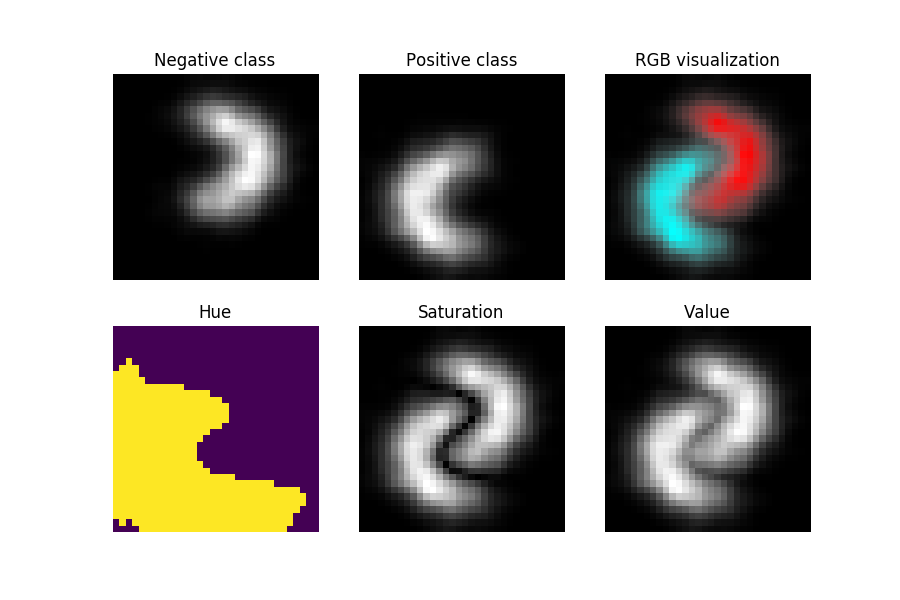
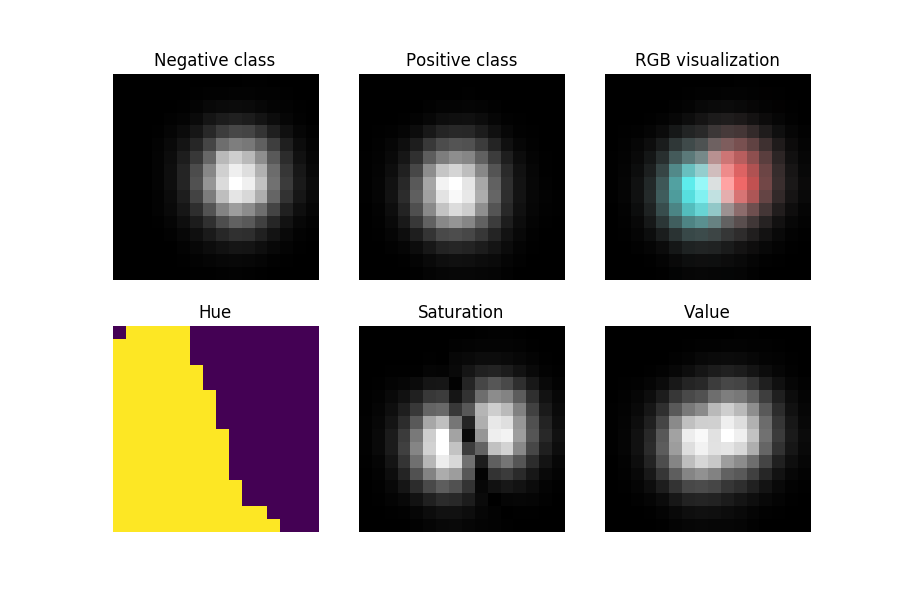
Pushing the docs for revision for branch: master, commit 816321f8b7b0fa1f9b0a92f97a49976f4a72881e

diff --git a/searchindex.js b/searchindex.js
@@ -1,1 +1,1 @@
-Search.setIndex({docnames:["about","api","auto_examples/compare_classifiers","auto_examples/index","auto_examples/plot_colorspace","auto_examples/plot_exposer","auto_examples/plot_hyperparameters","exposing","index","install"],envversion:52,filenames:["about.rst","api.rst","auto_examples/compare_classifiers.rst","auto_examples/index.rst","auto_examples/plot_colorspace.rst","auto_examples/plot_exposer.rst","auto_examples/plot_hyperparameters.rst","exposing.rst","index.rst","install.rst"],objects:{"":{exposing:[7,0,0,"-"]},"exposing.Exposer":{fit:[7,2,1,""],hsv:[7,2,1,""],locations:[7,2,1,""],model:[7,2,1,""],predict:[7,2,1,""],predict_proba:[7,2,1,""],rgb:[7,2,1,""],signatures:[7,2,1,""]},exposing:{Exposer:[7,1,1,""]}},objnames:{"0":["py","module","Python module"],"1":["py","class","Python class"],"2":["py","method","Python method"]},objtypes:{"0":"py:module","1":"py:class","2":"py:method"},terms:{"class":[4,7,8],"default":7,"float":7,"function":7,"import":[2,4,5,6],"int":7,"return":7,"true":2,GIS:7,The:[7,9],Use:9,a_step:[4,5,6,7],a_stepss:6,about:8,acc:6,adaboost:2,adaboostclassifi:2,adapt:7,addtion:[1,8],adipis:[0,1,7,8],aliqua:[0,1,7,8],aliquip:[0,1,7,8],all:[3,9],amet:[0,1,7,8],anim:[0,1,7,8],anisotrop:7,anyon:8,api:8,arrai:7,array_lik:7,assert_almost_equ:[2,4,5,6],attribut:7,aut:[0,1,7,8],auto_examples_jupyt:3,auto_examples_python:3,avail:9,axi:[4,6],axs:4,axx:4,basic:7,bay:2,bin:7,calcul:7,can:9,cillum:[0,1,7,8],classifi:[3,7],clf:[2,4,6],clone:9,closest:7,cmap:4,code:[2,3,4,5,6],colorspac:3,com:9,come:8,command:9,commodo:[0,1,7,8],compar:3,compare_classifi:2,compat:8,complet:7,comput:7,consectetur:[0,1,7,8],consequat:[0,1,7,8],contain:8,copi:9,correspond:7,culpa:[0,1,7,8],cupidatat:[0,1,7,8],dataset:[3,4,5,6,7],datetim:2,decis:2,decisiontreeclassifi:2,depend:9,deserunt:[0,1,7,8],develop:8,diffus:7,dimens:7,discriminant_analysi:2,divid:7,document:7,dolor:[0,1,7,8],download:[2,3,4,5,6],ds_idx:2,dui:[0,1,7,8],dure:7,each:7,eiusmod:[0,1,7,8],elit:[0,1,7,8],end:2,enim:[0,1,7,8],ensembl:2,enumer:[2,6],environment:7,ess:[0,1,7,8],est:[0,1,7,8],estim:[5,8],everi:7,exampl:[2,4,5,6,8],excepteur:[0,1,7,8],exercit:[0,1,7,8],expert:7,expos:[1,2,3,6],exposit:3,factor:[2,4,5],featur:7,fig:[4,6],figsiz:[4,6],file:9,fit:[2,4,5,6,7],fit_transform:2,follow:9,forest:2,from:[2,4,5,6,7,9],fugiat:[0,1,7,8],fuzzi:7,galleri:[2,3,4,5,6],gamma:2,gaussian_process:2,gaussiannb:2,gaussianprocessclassifi:2,gener:[2,4,5,6,8],geoscienc:7,get:[2,9],git:9,github:9,given:7,given_subspac:7,grai:4,grain:[4,5,6,7],habitat:7,haggi:7,highland:7,hsv:[4,7],http:9,hue:4,hyperparamet:3,idx:2,implement:[7,8],imshow:[4,5,6],incididunt:[0,1,7,8],indic:7,influenc:3,inform:[1,8],input:7,instal:8,integr:7,introductori:3,ipsum:[0,1,7,8],ipynb:[2,4,5,6],irur:[0,1,7,8],jupyt:[2,3,4,5,6],kei:2,kernel:2,kneighborsclassifi:2,krige:7,label:7,labor:[0,1,7,8],labori:[0,1,7,8],laborum:[0,1,7,8],last:7,learn:[8,9],len:6,like:7,linear:2,linearly_separ:2,locat:7,logic:7,lorem:[0,1,7,8],magna:[0,1,7,8],mai:9,make_circl:[2,4,5,6],make_classif:2,make_moon:[2,4,5,6],matplotlib:[2,4,5,6],max_depth:2,max_featur:2,mayb:8,mcnoleg:7,med:2,method:7,microsecond:2,minim:[0,1,7,8],minut:[2,4,5,6],mlpclassifi:2,model:[4,7],model_select:[2,4,5,6],modul:[7,8],mollit:[0,1,7,8],n_class:7,n_clusters_per_class:2,n_estim:2,n_featur:[2,7],n_inform:2,n_redund:2,n_sampl:[2,4,5,6,7],naiv:2,naive_bay:2,name:2,nearest:2,neg:4,neighbor:2,network:7,neural:7,neural_network:2,nisi:[0,1,7,8],nois:[2,4,5,6],non:[0,1,7,8],none:7,nostrud:[0,1,7,8],note:7,notebook:[2,3,4,5,6],now:2,nulla:[0,1,7,8],number:7,numpi:[2,4,5,6,9],object:7,occaecat:[0,1,7,8],off:[4,6],officia:[0,1,7,8],option:7,orient:7,packag:9,paramet:[3,7],pariatur:[0,1,7,8],part:2,pass:7,pip:9,planar:[3,7],plot:[2,4,5,6],plot_colorspac:4,plot_expos:5,plot_hyperparamet:6,plt:[2,4,5,6],posit:4,predict:7,predict_proba:7,prefer:9,preprocess:2,prerequisit:8,print:2,proident:[0,1,7,8],project:8,pypi:9,pyplot:[2,4,5,6],python:[2,3,4,5,6],qda:2,quadraticdiscriminantanalysi:2,qui:[0,1,7,8],random:2,random_st:[2,4,5,6],randomforestclassifi:2,randomst:2,rbf:2,refer:[7,8],remot:7,reporitori:9,reprehenderit:[0,1,7,8],represent:7,requir:9,result:2,revers:2,rgb:[4,5,6,7],rng:2,run:[2,4,5,6,9],sampl:7,satur:4,scikit:[8,9],scipi:9,score:[2,6],script:[2,4,5,6],second:[2,4,5,6],sed:[0,1,7,8],seen:7,self:7,sens:7,set_axis_off:6,set_titl:[4,6],setup:9,shape:[2,7],show:[3,6],signatur:7,singl:8,sint:[0,1,7,8],sit:[0,1,7,8],size:2,sklearn:[2,4,5,6],skltemplat:[2,4,5,6],sort:2,sourc:[2,3,4,5,6,7],sphinx:[2,3,4,5,6],split:2,standardscal:2,start:2,step:7,stream:[8,9],subplot:[4,6],subsampl:7,subspac:7,sunt:[0,1,7,8],svc:2,svm:2,synthet:3,system:7,target:7,techniqu:7,templat:[2,4,5,6,8],templateclassifi:[2,4,5,6],tempor:[0,1,7,8],test:[2,4,5,6,8],test_siz:[2,4,5,6],thi:8,three:3,time:[2,4,5,6],total:[2,4,5,6],train:[2,7],train_test_split:[2,4,5,6],tree:2,tupl:7,tutori:8,two:7,udr:7,ullamco:[0,1,7,8],uniform:2,unit:8,updat:2,usag:7,used:7,using:[7,9],valu:[4,7],velit:[0,1,7,8],veniam:[0,1,7,8],visual:[4,7],vol:7,volupt:[0,1,7,8],w4k2:9,which:8,who:8,wish:8,x_test:[2,4,5,6],x_train:[2,4,5,6],y_test:[2,4,5,6],y_train:[2,4,5,6],you:9,zip:[2,3]},titles:["About stream-learn","API Documentation","Comparing classifiers on three synthetic datasets","General examples","Showing colorspace parameters of planar Exposer","Showing Exposition of planar Exposer","Influence of hyperparameters","Exposing","Welcome to exposing documentation!","Instalation"],titleterms:{about:0,api:1,classifi:2,colorspac:4,compar:2,dataset:2,document:[1,8],exampl:3,expos:[4,5,7,8],exposit:5,gener:3,hyperparamet:6,influenc:6,instal:9,learn:0,paramet:4,planar:[4,5],prerequisit:9,show:[4,5],stream:0,synthet:2,three:2,welcom:8}})
+Search.setIndex({docnames:["about","api","auto_examples/compare_classifiers","auto_examples/index","auto_examples/plot_colorspace","auto_examples/plot_exposer","auto_examples/plot_hyperparameters","exposing","index","install"],envversion:52,filenames:["about.rst","api.rst","auto_examples/compare_classifiers.rst","auto_examples/index.rst","auto_examples/plot_colorspace.rst","auto_examples/plot_exposer.rst","auto_examples/plot_hyperparameters.rst","exposing.rst","index.rst","install.rst"],objects:{"":{exposing:[7,0,0,"-"]},"exposing.Exposer":{fit:[7,2,1,""],hsv:[7,2,1,""],locations:[7,2,1,""],model:[7,2,1,""],predict:[7,2,1,""],predict_proba:[7,2,1,""],rgb:[7,2,1,""],signatures:[7,2,1,""]},exposing:{Exposer:[7,1,1,""]}},objnames:{"0":["py","module","Python module"],"1":["py","class","Python class"],"2":["py","method","Python method"]},objtypes:{"0":"py:module","1":"py:class","2":"py:method"},terms:{"class":[4,7,8],"default":7,"float":7,"function":7,"import":[2,4,5,6],"int":7,"return":7,"true":2,The:[7,9],Use:9,a_step:[5,6,7],a_stepss:6,about:8,acc:6,adaboost:2,adaboostclassifi:2,addtion:[1,8],adipis:[0,1,7,8],aliqua:[0,1,7,8],aliquip:[0,1,7,8],all:[3,9],amet:[0,1,7,8],analysi:7,anim:[0,1,7,8],anisotrop:7,anyon:8,api:8,arrai:7,array_lik:7,assert_almost_equ:[2,4,5,6],attribut:7,aut:[0,1,7,8],auto_examples_jupyt:3,auto_examples_python:3,avail:9,axi:[4,6],axs:4,axx:4,basic:7,bay:2,bin:7,calcul:7,can:9,center:4,cillum:[0,1,7,8],classifi:[3,7],clf:[2,4,6],clone:9,closest:7,cluster_std:4,cmap:4,code:[2,3,4,5,6],colorspac:3,com:9,come:8,command:9,commodo:[0,1,7,8],compar:3,compare_classifi:2,compat:8,complet:7,concept:7,consectetur:[0,1,7,8],consequat:[0,1,7,8],contain:8,copi:9,correspond:7,culpa:[0,1,7,8],cupidatat:[0,1,7,8],dataset:[3,4,5,6,7],datetim:2,decis:2,decisiontreeclassifi:2,depend:9,deserunt:[0,1,7,8],detect:7,develop:8,diffus:7,dimens:7,discriminant_analysi:2,divid:7,document:7,dolor:[0,1,7,8],download:[2,3,4,5,6],ds_idx:2,dui:[0,1,7,8],dure:7,each:7,edg:7,eiusmod:[0,1,7,8],elit:[0,1,7,8],end:2,enim:[0,1,7,8],ensembl:[2,7],enumer:[2,6],ess:[0,1,7,8],est:[0,1,7,8],estim:[5,8],evalu:7,everi:7,exampl:[2,4,5,6,8],excepteur:[0,1,7,8],exercit:[0,1,7,8],expos:[1,2,3,6],exposit:3,factor:[2,5],featur:7,fig:[4,6],figsiz:[4,6],file:9,fit:[2,4,5,6,7],fit_transform:2,follow:9,forest:2,from:[2,4,5,6,7,9],fugiat:[0,1,7,8],fuzzi:7,galleri:[2,3,4,5,6],gamma:2,gaussian_process:2,gaussiannb:2,gaussianprocessclassifi:2,gener:[2,4,5,6,8],get:[2,9],git:9,github:9,given:7,given_subspac:7,grai:4,grain:[5,6,7],grana:7,hsv:[4,7],http:9,hue:4,hyperparamet:3,idx:2,ieee:7,implement:[7,8],imshow:[4,5,6],incididunt:[0,1,7,8],indic:7,influenc:3,inform:[1,8],input:7,instal:8,intellig:7,introductori:3,ipsum:[0,1,7,8],ipynb:[2,4,5,6],irur:[0,1,7,8],journal:7,jupyt:[2,3,4,5,6],kei:2,kernel:2,kneighborsclassifi:2,ksieniewicz:7,label:7,labor:[0,1,7,8],labori:[0,1,7,8],laborum:[0,1,7,8],last:7,learn:[8,9],len:6,like:7,linear:2,linearly_separ:2,locat:7,lorem:[0,1,7,8],machin:7,magna:[0,1,7,8],mai:9,make_blob:4,make_circl:[2,5,6],make_classif:2,make_moon:[2,5,6],malik:7,matplotlib:[2,4,5,6],max_depth:2,max_featur:2,mayb:8,med:2,method:7,microsecond:2,minim:[0,1,7,8],minut:[2,4,5,6],mlpclassifi:2,model:[4,7],model_select:[2,4,5,6],modul:[7,8],mollit:[0,1,7,8],multilay:7,n_class:7,n_clusters_per_class:2,n_estim:2,n_featur:[2,4,7],n_inform:2,n_redund:2,n_sampl:[2,4,5,6,7],naiv:2,naive_bay:2,name:2,nearest:2,neg:4,neighbor:2,neural_network:2,nisi:[0,1,7,8],nois:[2,5,6],non:[0,1,7,8],none:7,nostrud:[0,1,7,8],note:7,notebook:[2,3,4,5,6],now:2,nulla:[0,1,7,8],number:7,numpi:[2,4,5,6,9],object:7,occaecat:[0,1,7,8],off:[4,6],officia:[0,1,7,8],option:7,packag:9,pair:7,paramet:[3,7],pariatur:[0,1,7,8],part:2,pass:7,pattern:7,perona:7,pip:9,planar:[3,7],plot:[2,4,5,6],plot_colorspac:4,plot_expos:5,plot_hyperparamet:6,plt:[2,4,5,6],posit:4,predict:7,predict_proba:7,prefer:9,preprocess:2,prerequisit:8,print:2,proident:[0,1,7,8],project:8,pypi:9,pyplot:[2,4,5,6],python:[2,3,4,5,6],qda:2,quadraticdiscriminantanalysi:2,qui:[0,1,7,8],random:2,random_st:[2,4,5,6],randomforestclassifi:2,randomst:2,rbf:2,refer:[7,8],reporitori:9,reprehenderit:[0,1,7,8],represent:7,requir:9,result:2,revers:2,rgb:[4,5,6,7],rng:2,run:[2,4,5,6,9],sampl:7,satur:4,scale:7,scikit:[8,9],scipi:9,score:[2,6],script:[2,4,5,6],second:[2,4,5,6],sed:[0,1,7,8],seen:7,self:7,set_axis_off:6,set_titl:[4,6],setup:9,shape:[2,7],show:[3,6],signatur:7,singl:8,sint:[0,1,7,8],sit:[0,1,7,8],size:2,sklearn:[2,4,5,6],skltemplat:[2,4,5,6],sort:2,sourc:[2,3,4,5,6,7],space:7,sphinx:[2,3,4,5,6],split:2,standardscal:2,start:2,step:7,stream:[8,9],subplot:[4,6],subsampl:7,subspac:7,sunt:[0,1,7,8],svc:2,svm:2,synthet:3,system:7,target:7,templat:[2,4,5,6,8],templateclassifi:[2,4,5,6],tempor:[0,1,7,8],test:[2,4,5,6,8],test_siz:[2,4,5,6],theta_:7,thetas_:7,thi:8,three:3,time:[2,4,5,6],total:[2,4,5,6],train:[2,7],train_test_split:[2,4,5,6],transact:7,tree:2,tupl:7,tutori:8,two:7,udr:7,ullamco:[0,1,7,8],uniform:2,unit:8,updat:2,usag:7,used:7,using:[7,9],valu:[4,7],velit:[0,1,7,8],veniam:[0,1,7,8],visual:[4,7],volupt:[0,1,7,8],w4k2:9,which:8,who:8,wish:8,wozniak:7,x_test:[2,4,5,6],x_train:[2,4,5,6],y_test:[2,4,5,6],y_train:[2,4,5,6],you:9,zip:[2,3]},titles:["About stream-learn","API Documentation","Comparing classifiers on three synthetic datasets","General examples","Showing colorspace parameters of planar Exposer","Showing Exposition of planar Exposer","Influence of hyperparameters","Exposing","Welcome to exposing documentation!","Instalation"],titleterms:{about:0,api:1,classifi:2,colorspac:4,compar:2,dataset:2,document:[1,8],exampl:3,expos:[4,5,7,8],exposit:5,gener:3,hyperparamet:6,influenc:6,instal:9,learn:0,paramet:4,planar:[4,5],prerequisit:9,show:[4,5],stream:0,synthet:2,three:2,welcom:8}})

diff --git a/auto_examples/plot_colorspace.html b/auto_examples/plot_colorspace.html
@@ -184,20 +184,20 @@
 <img alt="../_images/sphx_glr_plot_colorspace_001.png" class="align-center" src="../_images/sphx_glr_plot_colorspace_001.png" />
 <div class="highlight-python notranslate"><div class="highlight"><pre><span></span><span class="kn">import</span> <span class="nn">numpy</span> <span class="kn">as</span> <span class="nn">np</span>
 <span class="kn">from</span> <span class="nn">numpy.testing</span> <span class="kn">import</span> <span class="n">assert_almost_equal</span>
-<span class="kn">from</span> <span class="nn">sklearn.datasets</span> <span class="kn">import</span> <span class="n">make_circles</span><span class="p">,</span> <span class="n">make_moons</span>
+<span class="kn">from</span> <span class="nn">sklearn.datasets</span> <span class="kn">import</span> <span class="n">make_blobs</span>
 <span class="kn">from</span> <span class="nn">sklearn.model_selection</span> <span class="kn">import</span> <span class="n">train_test_split</span>
 <span class="kn">from</span> <span class="nn">matplotlib</span> <span class="kn">import</span> <span class="n">pyplot</span> <span class="k">as</span> <span class="n">plt</span>
 
 <span class="kn">from</span> <span class="nn">exposing</span> <span class="kn">import</span> <span class="n">Exposer</span>
 
 <span class="n">n_samples</span> <span class="o">=</span> <span class="mi">10000</span>
-<span class="n">ds</span> <span class="o">=</span> <span class="n">make_circles</span><span class="p">(</span><span class="n">noise</span><span class="o">=</span><span class="mf">0.2</span><span class="p">,</span> <span class="n">factor</span><span class="o">=</span><span class="mf">0.5</span><span class="p">,</span> <span class="n">random_state</span><span class="o">=</span><span class="mi">1</span><span class="p">,</span> <span class="n">n_samples</span><span class="o">=</span><span class="n">n_samples</span><span class="p">)</span>
-<span class="n">ds</span> <span class="o">=</span> <span class="n">make_moons</span><span class="p">(</span><span class="n">noise</span><span class="o">=</span><span class="mf">0.3</span><span class="p">,</span> <span class="n">random_state</span><span class="o">=</span><span class="mi">0</span><span class="p">,</span> <span class="n">n_samples</span><span class="o">=</span><span class="n">n_samples</span><span class="p">)</span>
+<span class="n">ds</span> <span class="o">=</span> <span class="n">make_blobs</span><span class="p">(</span><span class="n">n_samples</span><span class="o">=</span><span class="n">n_samples</span><span class="p">,</span> <span class="n">n_features</span><span class="o">=</span><span class="mi">2</span><span class="p">,</span> <span class="n">centers</span><span class="o">=</span><span class="mi">2</span><span class="p">,</span>
+                <span class="n">random_state</span><span class="o">=</span><span class="mi">0</span><span class="p">,</span> <span class="n">cluster_std</span><span class="o">=</span><span class="mf">3.0</span><span class="p">)</span>
 <span class="n">X</span><span class="p">,</span> <span class="n">y</span> <span class="o">=</span> <span class="n">ds</span>
 <span class="n">X_train</span><span class="p">,</span> <span class="n">X_test</span><span class="p">,</span> <span class="n">y_train</span><span class="p">,</span> <span class="n">y_test</span> <span class="o">=</span> \
     <span class="n">train_test_split</span><span class="p">(</span><span class="n">X</span><span class="p">,</span> <span class="n">y</span><span class="p">,</span> <span class="n">test_size</span><span class="o">=.</span><span class="mi">4</span><span class="p">,</span> <span class="n">random_state</span><span class="o">=</span><span class="mi">42</span><span class="p">)</span>
 
-<span class="n">clf</span> <span class="o">=</span> <span class="n">Exposer</span><span class="p">(</span><span class="n">a_steps</span><span class="o">=</span><span class="mi">5</span><span class="p">,</span> <span class="n">grain</span><span class="o">=</span><span class="mi">32</span><span class="p">)</span>
+<span class="n">clf</span> <span class="o">=</span> <span class="n">Exposer</span><span class="p">()</span>
 <span class="n">clf</span><span class="o">.</span><span class="n">fit</span><span class="p">(</span><span class="n">X_train</span><span class="p">,</span> <span class="n">y_train</span><span class="p">)</span>
 
 <span class="n">fig</span><span class="p">,</span> <span class="n">axs</span> <span class="o">=</span> <span class="n">plt</span><span class="o">.</span><span class="n">subplots</span><span class="p">(</span><span class="mi">2</span><span class="p">,</span> <span class="mi">3</span><span class="p">,</span> <span class="n">figsize</span><span class="o">=</span><span class="p">(</span><span class="mi">9</span><span class="p">,</span> <span class="mi">6</span><span class="p">))</span>
@@ -227,7 +227,7 @@
 <span class="n">plt</span><span class="o">.</span><span class="n">show</span><span class="p">()</span>
 </pre></div>
 </div>
-<p><strong>Total running time of the script:</strong> ( 0 minutes  0.159 seconds)</p>
+<p><strong>Total running time of the script:</strong> ( 0 minutes  0.160 seconds)</p>
 <div class="sphx-glr-footer docutils container">
 <div class="sphx-glr-download docutils container">
 <a class="reference download internal" href="../_downloads/plot_colorspace.py" download=""><code class="xref download docutils literal notranslate"><span class="pre">Download</span> <span class="pre">Python</span> <span class="pre">source</span> <span class="pre">code:</span> <span class="pre">plot_colorspace.py</span></code></a></div>

diff --git a/exposing.html b/exposing.html
@@ -194,11 +194,11 @@ usage of last two features).</p>
 </div></blockquote>
 <p><strong>grain</strong> : int, optional</p>
 <blockquote>
-<div><p>Number of bins dividing every dimension (the default is <cite>16</cite>).</p>
+<div><p>Number of bins dividing every dimension (the default is <code class="docutils literal notranslate"><span class="pre">16</span></code>).</p>
 </div></blockquote>
 <p><strong>a_steps</strong> : int, optional</p>
 <blockquote class="last">
-<div><p>Number of steps of anisotropic diffusion (the default is <cite>5</cite>).</p>
+<div><p>Number of steps of anisotropic diffusion (the default is <code class="docutils literal notranslate"><span class="pre">5</span></code>).</p>
 </div></blockquote>
 </td>
 </tr>
@@ -216,24 +216,36 @@ est laborum.</p>
 <table class="docutils citation" frame="void" id="r1" rules="none">
 <colgroup><col class="label" /><col /></colgroup>
 <tbody valign="top">
-<tr><td class="label"><a class="fn-backref" href="#id1">[R1]</a></td><td>O. McNoleg, “The integration of GIS, remote sensing,
-expert systems and adaptive co-kriging for environmental habitat
-modelling of the Highland Haggis using object-oriented, fuzzy-logic
-and neural-network techniques,” Computers &amp; Geosciences, vol. 22,
-pp. 585-588, 1996.</td></tr>
+<tr><td class="label"><a class="fn-backref" href="#id1">[R1]</a></td><td>Ksieniewicz, P., Grana, M., Wozniak, M. (2017). Paired feature
+multilayer ensemble - concept and evaluation of a classifier. Journal of
+Intelligent and Fuzzy Systems,  32(2), 1427-1436.</td></tr>
+</tbody>
+</table>
+<table class="docutils citation" frame="void" id="r2" rules="none">
+<colgroup><col class="label" /><col /></colgroup>
+<tbody valign="top">
+<tr><td class="label"><a class="fn-backref" href="#id2">[R2]</a></td><td>Perona, P., Malik, J. (1990). Scale-space and edge detection using
+anisotropic diffusion. IEEE Transactions on Pattern Analysis and Machine
+Intelligence, 12(7), 629-639.</td></tr>
 </tbody>
 </table>
 <p class="rubric">Attributes</p>
 <table border="1" class="docutils">
 <colgroup>
-<col width="7%" />
-<col width="93%" />
+<col width="13%" />
+<col width="87%" />
 </colgroup>
 <tbody valign="top">
 <tr class="row-odd"><td><strong>X_</strong></td>
 <td>(array, shape = [n_samples, n_features]) The input passed during <a class="reference internal" href="#exposing.Exposer.fit" title="exposing.Exposer.fit"><code class="xref py py-meth docutils literal notranslate"><span class="pre">fit()</span></code></a></td>
 </tr>
 <tr class="row-even"><td><strong>y_</strong></td>
+<td>(array, shape = [n_samples]) The labels passed during <a class="reference internal" href="#exposing.Exposer.fit" title="exposing.Exposer.fit"><code class="xref py py-meth docutils literal notranslate"><span class="pre">fit()</span></code></a></td>
+</tr>
+<tr class="row-odd"><td><strong>theta_</strong></td>
+<td>(array, shape = [n_samples]) The labels passed during <a class="reference internal" href="#exposing.Exposer.fit" title="exposing.Exposer.fit"><code class="xref py py-meth docutils literal notranslate"><span class="pre">fit()</span></code></a></td>
+</tr>
+<tr class="row-even"><td><strong>thetas_</strong></td>
 <td>(array, shape = [n_samples]) The labels passed during <a class="reference internal" href="#exposing.Exposer.fit" title="exposing.Exposer.fit"><code class="xref py py-meth docutils literal notranslate"><span class="pre">fit()</span></code></a></td>
 </tr>
 </tbody>

diff --git a/_modules/exposing/exposing.html b/_modules/exposing/exposing.html
@@ -202,9 +202,9 @@
 <span class="sd">        Indices of dataset subspace used to calculate exposer. (the default is</span>
 <span class="sd">        usage of last two features).</span>
 <span class="sd">    grain : int, optional</span>
-<span class="sd">        Number of bins dividing every dimension (the default is `16`).</span>
+<span class="sd">        Number of bins dividing every dimension (the default is ``16``).</span>
 <span class="sd">    a_steps : int, optional</span>
-<span class="sd">        Number of steps of anisotropic diffusion (the default is `5`).</span>
+<span class="sd">        Number of steps of anisotropic diffusion (the default is ``5``).</span>
 
 <span class="sd">    Attributes</span>
 <span class="sd">    ----------</span>
@@ -212,14 +212,19 @@
 <span class="sd">        The input passed during :meth:`fit`</span>
 <span class="sd">    y_ : array, shape = [n_samples]</span>
 <span class="sd">        The labels passed during :meth:`fit`</span>
+<span class="sd">    theta_ : array, shape = [n_samples]</span>
+<span class="sd">        The labels passed during :meth:`fit`</span>
+<span class="sd">    thetas_ : array, shape = [n_samples]</span>
+<span class="sd">        The labels passed during :meth:`fit`</span>
 
 <span class="sd">    References</span>
 <span class="sd">    ----------</span>
-<span class="sd">    .. [1] O. McNoleg, &quot;The integration of GIS, remote sensing,</span>
-<span class="sd">       expert systems and adaptive co-kriging for environmental habitat</span>
-<span class="sd">       modelling of the Highland Haggis using object-oriented, fuzzy-logic</span>
-<span class="sd">       and neural-network techniques,&quot; Computers &amp; Geosciences, vol. 22,</span>
-<span class="sd">       pp. 585-588, 1996.</span>
+<span class="sd">    .. [1] Ksieniewicz, P., Grana, M., Wozniak, M. (2017). Paired feature</span>
+<span class="sd">       multilayer ensemble - concept and evaluation of a classifier. Journal of</span>
+<span class="sd">       Intelligent and Fuzzy Systems,  32(2), 1427-1436.</span>
+<span class="sd">    .. [2] Perona, P., Malik, J. (1990). Scale-space and edge detection using</span>
+<span class="sd">       anisotropic diffusion. IEEE Transactions on Pattern Analysis and Machine</span>
+<span class="sd">       Intelligence, 12(7), 629-639.</span>
 <span class="sd">    &quot;&quot;&quot;</span>
 
     <span class="k">def</span> <span class="nf">__init__</span><span class="p">(</span><span class="bp">self</span><span class="p">,</span> <span class="n">given_subspace</span><span class="o">=</span><span class="kc">None</span><span class="p">,</span> <span class="n">grain</span><span class="o">=</span><span class="mi">16</span><span class="p">,</span> <span class="n">a_steps</span><span class="o">=</span><span class="mi">5</span><span class="p">):</span>

diff --git a/auto_examples/plot_hyperparameters.html b/auto_examples/plot_hyperparameters.html
@@ -213,7 +213,7 @@
 <span class="n">plt</span><span class="o">.</span><span class="n">show</span><span class="p">()</span>
 </pre></div>
 </div>
-<p><strong>Total running time of the script:</strong> ( 0 minutes  0.793 seconds)</p>
+<p><strong>Total running time of the script:</strong> ( 0 minutes  0.798 seconds)</p>
 <div class="sphx-glr-footer docutils container">
 <div class="sphx-glr-download docutils container">
 <a class="reference download internal" href="../_downloads/plot_hyperparameters.py" download=""><code class="xref download docutils literal notranslate"><span class="pre">Download</span> <span class="pre">Python</span> <span class="pre">source</span> <span class="pre">code:</span> <span class="pre">plot_hyperparameters.py</span></code></a></div>

diff --git a/auto_examples/plot_exposer.html b/auto_examples/plot_exposer.html
@@ -205,7 +205,7 @@
 <span class="n">plt</span><span class="o">.</span><span class="n">show</span><span class="p">()</span>
 </pre></div>
 </div>
-<p><strong>Total running time of the script:</strong> ( 0 minutes  0.308 seconds)</p>
+<p><strong>Total running time of the script:</strong> ( 0 minutes  0.357 seconds)</p>
 <div class="sphx-glr-footer docutils container">
 <div class="sphx-glr-download docutils container">
 <a class="reference download internal" href="../_downloads/plot_exposer.py" download=""><code class="xref download docutils literal notranslate"><span class="pre">Download</span> <span class="pre">Python</span> <span class="pre">source</span> <span class="pre">code:</span> <span class="pre">plot_exposer.py</span></code></a></div>

diff --git a/_downloads/plot_colorspace.py b/_downloads/plot_colorspace.py
@@ -7,20 +7,20 @@ An example plot of :class:`skltemplate.template.TemplateClassifier`
 """
 import numpy as np
 from numpy.testing import assert_almost_equal
-from sklearn.datasets import make_circles, make_moons
+from sklearn.datasets import make_blobs
 from sklearn.model_selection import train_test_split
 from matplotlib import pyplot as plt
 
 from exposing import Exposer
 
 n_samples = 10000
-ds = make_circles(noise=0.2, factor=0.5, random_state=1, n_samples=n_samples)
-ds = make_moons(noise=0.3, random_state=0, n_samples=n_samples)
+ds = make_blobs(n_samples=n_samples, n_features=2, centers=2,
+                random_state=0, cluster_std=3.0)
 X, y = ds
 X_train, X_test, y_train, y_test = \
     train_test_split(X, y, test_size=.4, random_state=42)
 
-clf = Exposer(a_steps=5, grain=32)
+clf = Exposer()
 clf.fit(X_train, y_train)
 
 fig, axs = plt.subplots(2, 3, figsize=(9, 6))
